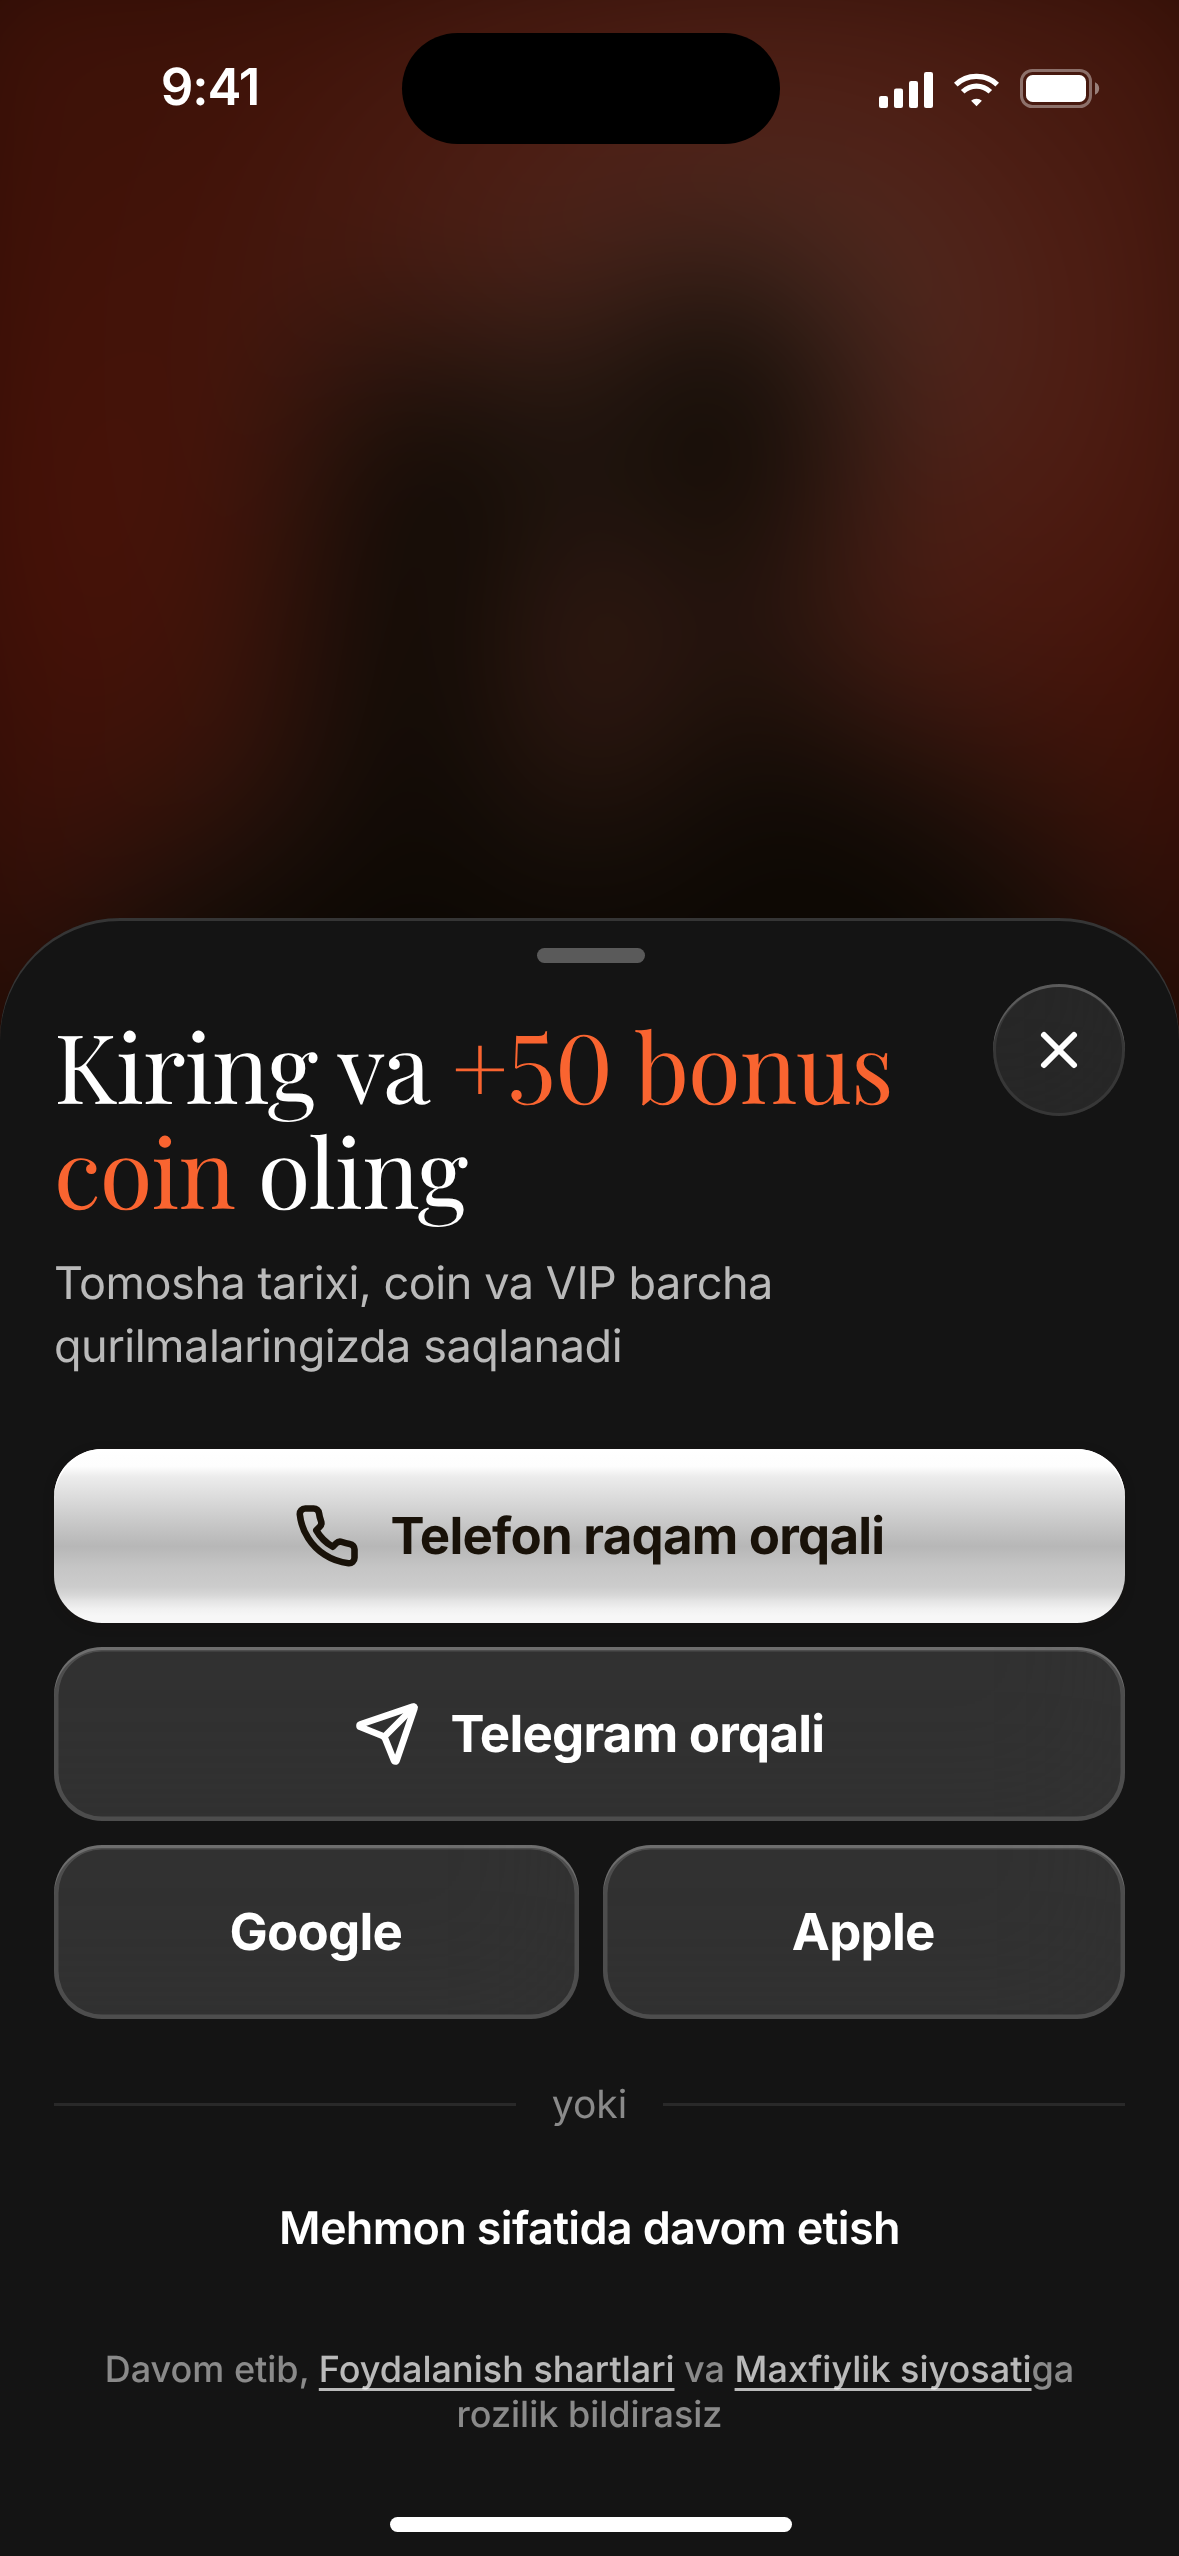
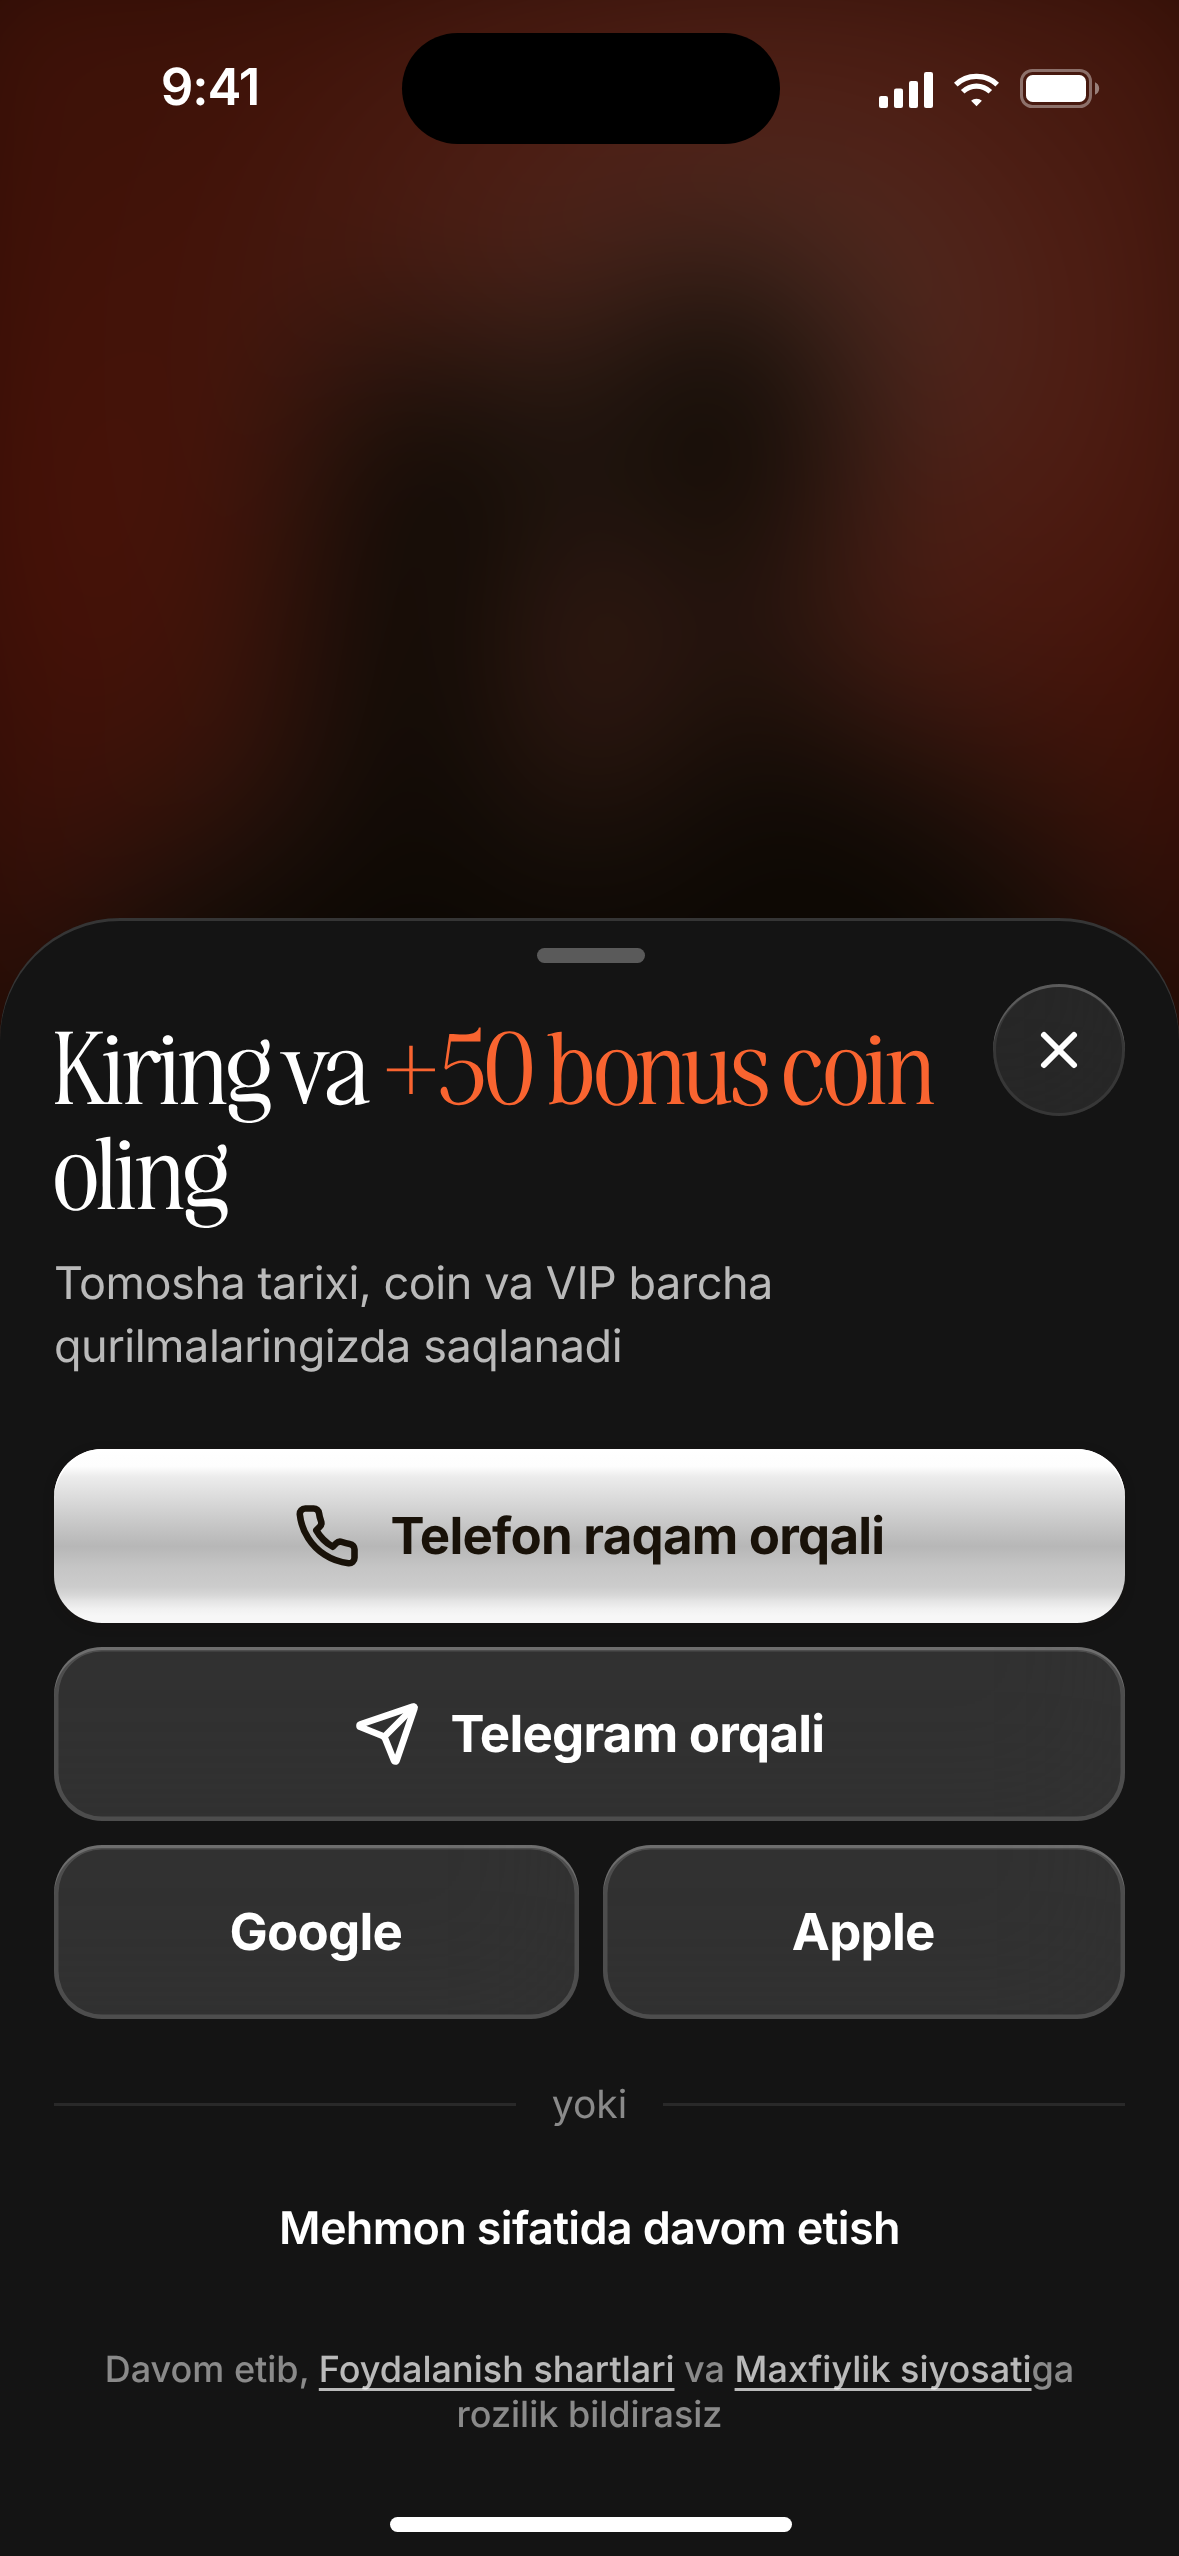
Serif headings use Awesome Serif (user-licensed files kept out of the public repo)
- @font-face loads design/fonts/AwesomeSerif-Regular/MediumRegular.otf
  (gitignored: commercial font, public repository); missing glyphs
  (U+02BB, U+02BC, guillemets, minus) and the very small plus fall back
  to Playfair Display via unicode-range
- styleguide, fonts.md, DEVIATIONS U1, README, audit labels updated;
  audit clean, 3x shots and montages regenerated

Claude-Session: https://claude.ai/code/session_01AYQSqmCKxR9wk5HyhigZPN

Changed region(s): [[0.0305, 0.4018, 0.7939, 0.4945]]

diff --git a/design/tokens.css b/design/tokens.css
@@ -3,11 +3,12 @@
    Har bir qiymat 1-bosqich o'lchovlaridan (design/analysis/SUMMARY.md).
    1 pt = 1 CSS px (ekran kengligi 393).
    ===================================================================== */
-/* Serif — foydalanuvchi tanlovi: Awesome Serif (Nicky Laatz, tijoriy litsenziya). Fayl repoda yo'q: qurilmada o'rnatilgan
-   bo'lsa local() orqali ishlaydi; litsenziyali .woff2 fayllar qo'shilsa, src'ga url('fonts/AwesomeSerif-Regular.woff2') yoziladi.
-   Ungacha eng yaqin bepul o'rinbosar — Playfair Display (yuqori kontrast, ʻ U+02BB glifi to'g'ri kenglikda). */
-@font-face { font-family: 'Awesome Serif'; font-weight: 400; font-display: swap; src: local('Awesome Serif'), local('Awesome Serif Regular'), local('AwesomeSerif-Regular'); }
-@font-face { font-family: 'Awesome Serif'; font-weight: 500; font-display: swap; src: local('Awesome Serif Medium'), local('AwesomeSerif-Medium'); }
+/* Serif — foydalanuvchi tanlovi: Awesome Serif (Nicky Laatz, tijoriy litsenziya; foydalanuvchi o'z fayllarini berdi).
+   Fayllar design/fonts/ da — .gitignore'da: ochiq repoga qo'yilmaydi (litsenziya). Fayl bo'lmasa — o'rnatilgan shrift (local),
+   u ham bo'lmasa Playfair Display. Awesome Serif'da yo'q belgilar (ʻ ʼ « » − № × →) avtomatik Playfair Display'dan olinadi;
+   «+» belgisi ham (unicode-range'dan chiqarilgan): Awesome Serif'dagi «+» juda kichik — «+50 bonus» «· 50» bo'lib o'qilardi. */
+@font-face { font-family: 'Awesome Serif'; font-weight: 400; font-display: swap; src: local('Awesome Serif Regular'), local('AwesomeSerif-Regular'), url('fonts/AwesomeSerif-Regular.otf') format('opentype'); unicode-range: U+0000-002A, U+002C-10FFFF; }
+@font-face { font-family: 'Awesome Serif'; font-weight: 500; font-display: swap; src: local('Awesome Serif Medium Regular'), local('AwesomeSerif-MediumRegular'), url('fonts/AwesomeSerif-MediumRegular.otf') format('opentype'); unicode-range: U+0000-002A, U+002C-10FFFF; }
 :root {
   /* ---------- Neytral (ref-01 skelet) ---------- */
   --bg-0: #000000;            /* ref-01: ekran foni, 6 nuqta #000000–#020101 */
@@ -172,7 +173,7 @@
 
   /* ---------- Tipografiya ---------- */
   --f-display: 'Anton', 'Impact', sans-serif;               /* ref-01 MARTY SUPREME → Anton (IoU) */
-  --f-serif: 'Awesome Serif', 'Playfair Display', 'Georgia', serif;   /* foydalanuvchi: Awesome Serif (yuqoridagi izoh); o'rinbosar Playfair Display */
+  --f-serif: 'Awesome Serif', 'Playfair Display', 'Georgia', serif;   /* foydalanuvchi: Awesome Serif (yuqoridagi izoh); yo'q belgilar va fayl bo'lmasa — Playfair Display */
   --f-ui: 'Inter', -apple-system, 'SF Pro Text', sans-serif; /* ref-01/04 SF → Inter */
   --f-edit: 'Inter Tight', 'Inter', sans-serif;             /* ref-03 */
   --f-mono: 'IBM Plex Mono', ui-monospace, monospace;       /* ref-03 caption */

diff --git a/design/styleguide.html b/design/styleguide.html
@@ -146,7 +146,7 @@
 
   <!-- ===== Shriftlar ===== -->
   <section class="sec-sg">
-    <header><h2>Shriftlar</h2><p>Serif — Awesome Serif (tijoriy shrift: qurilmada oʻrnatilgan boʻlsa shu koʻrinadi), oʻrinbosari Playfair Display; qolgan toʻrttasi Google Fonts. Oʻzbek belgilari (Oʻ, Gʻ — U+02BB, tutuq ʼ — U+02BC) glif va kenglik boʻyicha tekshirilgan (<code class="k">analysis/fonts.md</code>).</p></header>
+    <header><h2>Shriftlar</h2><p>Serif — Awesome Serif (Nicky Laatz, foydalanuvchi litsenziyasi); unda yoʻq belgilar (ʻ ʼ « » − №) va «+» Playfair Display'dan. Qolgan toʻrttasi Google Fonts. Oʻzbek belgilari (Oʻ, Gʻ — U+02BB, tutuq ʼ — U+02BC) glif va kenglik boʻyicha tekshirilgan (<code class="k">analysis/fonts.md</code>).</p></header>
     <div class="fonts" id="fonts"></div>
   </section>
 
@@ -218,7 +218,7 @@
   const ABC = 'Aa Bb Dd Ee Ff Gg Hh Ii Jj Kk Ll Mm Nn Oo Pp Qq Rr Ss Tt Uu Vv Xx Yy Zz Oʻoʻ Gʻgʻ Shsh Chch';
   const FONTS = [
     ['Anton', '--f-display', 'Display · 400', 'Hero sarlavha lockup, Top-10 raqamlari, coin miqdori, countdown.', 'ANTON'],
-    ['Awesome Serif', '--f-serif', 'Serif · 400 / 500 · oʻrinbosar Playfair Display', 'Emotsional sarlavhalar: onboarding, kirish, sovgʻa, VIP, profil ismi.', ''],
+    ['Awesome Serif', '--f-serif', 'Serif · 400 / 500 · ʻ ʼ « » + — Playfair Display', 'Emotsional sarlavhalar: onboarding, kirish, sovgʻa, VIP, profil ismi.', ''],
     ['Inter', '--f-ui', 'UI · 400 / 500 / 600 / 700', 'Barcha interfeys matni: tugma, roʻyxat, meta, nav.', ''],
     ['Inter Tight', '--f-edit', 'Editorial · 400 / 500', 'Katta tahririy sarlavhalar va roʻyxatlar (ref-03).', ''],
     ['IBM Plex Mono', '--f-mono', 'Mono · 400 / 500', 'ID, taklif kodi, kichik yorliqlar.', ''],

diff --git a/design/components.css b/design/components.css
@@ -30,8 +30,8 @@ button { font: inherit; color: inherit; background: none; border: 0; cursor: poi
 /* ---------- Tipografiya (shkala) ---------- */
 .t-display { font-family: var(--f-display); font-weight: 400; line-height: .86; text-transform: uppercase; letter-spacing: 0; }
 .t-num { font: 400 var(--t-num)/.9 var(--f-display); }
-.t-serif-xl { font: 400 var(--t-serif-xl)/1.05 var(--f-serif); letter-spacing: -.01em; font-variant-numeric: lining-nums; }
-.t-serif-lg { font: 400 var(--t-serif-lg)/1.1 var(--f-serif); letter-spacing: -.01em; font-variant-numeric: lining-nums; }
+.t-serif-xl { font: 400 var(--t-serif-xl)/1.05 var(--f-serif); letter-spacing: 0; font-variant-numeric: lining-nums; }
+.t-serif-lg { font: 400 var(--t-serif-lg)/1.1 var(--f-serif); letter-spacing: 0; font-variant-numeric: lining-nums; }
 .t-edit-xl { font: 400 var(--t-edit-xl)/.98 var(--f-edit); letter-spacing: -.04em; }
 .t-edit { font: 400 var(--t-edit)/1.41 var(--f-edit); letter-spacing: -.04em; }
 .t-title-1 { font: 400 var(--t-title-1)/.97 var(--f-ui); letter-spacing: -.015em; }

diff --git a/design/tools/shoot.js b/design/tools/shoot.js
@@ -17,7 +17,7 @@ const [,, scale, outDir, ...files] = process.argv;
       const s = document.getElementById('screen') || document.querySelector('.screen');
       const pad = s.querySelector('.scroll-pad');
       const natural = pad ? Math.ceil(pad.getBoundingClientRect().bottom - s.getBoundingClientRect().top) : null;
-      const fontsOk = ['Anton', 'Playfair Display', 'Inter', 'Inter Tight', 'IBM Plex Mono'].map(n => n + ':' + document.fonts.check(`16px "${n}"`));
+      const fontsOk = ['Anton', 'Awesome Serif', 'Inter', 'Inter Tight', 'IBM Plex Mono'].map(n => n + ':' + document.fonts.check(`16px "${n}"`));
       return { h: s.getBoundingClientRect().height, natural, fontsOk };
     });
     await page.setViewportSize({ width: 393, height: Math.ceil(info.h) });

diff --git a/design/tools/audit.py b/design/tools/audit.py
@@ -136,7 +136,7 @@ for n, d in A.items():
 w(f'- Shkala: {sorted(SCALE)}')
 w(f'- Shkaladan tashqari oʻlchamlar: ' + ('yoʻq' if not off else ''))
 for s, l in sorted(off.items()): w(f'  - {s}px × {len(l)}: ' + ', '.join(l[:6]))
-fams = sorted({t['family'].replace('Awesome Serif', 'Awesome Serif (oʻrinbosar Playfair Display)') for d in A.values() for t in d['text']})
+fams = sorted({t['family'].replace('Awesome Serif', 'Awesome Serif (+ Playfair Display: ʻ ʼ « » +)') for d in A.values() for t in d['text']})
 w(f'- Shrift oilalari: {", ".join(fams)}\n')
 
 # ---------------------------------------------------------------- 6. radiuslar
@@ -210,7 +210,7 @@ w("| Sahifa cheti, bo'limlar orasi bir xil | ✓ (18 pt — DEVIATIONS S7) | §7
 w("| Glossy pill ref-01 bilan farqsiz | ✓ | `DELTA_E.md`: 13 nuqtali profil, oʻrtacha ΔE 0.41, max 1.47 |")
 w("| Glass (blur, alfa, chegara) ref-04/05/06/07 bilan | ✓ | `DELTA_E.md`: bir xil fon ustida render; `--glass-filter` blur 24, saturate yoʻq (S10) |")
 w('| Nur halqasi va grain iliq ekranlarda, kuchi bir xil | ✓ | §7c; bitta `--ring-shadow`, bitta `--grain-opacity` |')
-w("| Tipografiya faqat shkaladan; oʻ/gʻ toʻgʻri | ✓ | §5; serif — Awesome Serif / Playfair Display, ʻ toʻgʻri kenglikda (`fonts.md` §7b) |")
+w("| Tipografiya faqat shkaladan; oʻ/gʻ toʻgʻri | ✓ | §5; serif — Awesome Serif, unda yoʻq ʻ ʼ Playfair Display'dan toʻgʻri kenglikda (`fonts.md` §7b) |")
 w('| Ikonkalar bitta toʻplamdan, round cap | ✓ (stroke 2.4 — foydalanuvchi soʻrovi bilan qalinlashtirildi) | §7b |')
 w('| Bottom nav 5 ekranda piksel aniqligida bir joyda | ✓ | §2 |')
 w('| Status bar, Dynamic Island, home indicator bir xil | ✓ | §1 |')

diff --git a/design/README.md b/design/README.md
@@ -10,7 +10,7 @@ Faqat HTML + CSS + minimal vanilla JS (prototip xatti-harakati — `app.js`). Fr
    - **`design/styleguide.html`** — ref-07 formatidagi stil qo'llanmasi: shrift alifbolari va raqamlar, HEX doiralar, gradient namunalari, tipografiya shkalasi, effektlar, radiuslar, oraliqlar, ikonkalar.
    - **`design/components.html`** — barcha komponentlar va holatlari.
    - Alohida ekran: `design/screens/04-bosh-sahifa.html` va h.k. (393 px kenglikda).
-3. Shriftlar Google Fonts'dan yuklanadi (internet kerak): Anton, Gelasio (+ faqat ʻ ʼ uchun Noto Serif subset'i), Inter, Inter Tight, IBM Plex Mono.
+3. Shriftlar: Anton, Inter, Inter Tight, IBM Plex Mono, Playfair Display — Google Fonts'dan (internet kerak). Serif sarlavhalar — **Awesome Serif** (tijoriy): fayllarni `design/fonts/` ga qo'ying (`AwesomeSerif-Regular.otf`, `AwesomeSerif-MediumRegular.otf`) yoki shriftni kompyuterga o'rnating. Bu papka `.gitignore`'da — ochiq repoda shrift yo'q; fayl bo'lmasa Playfair Display ko'rinadi.
 
 ## Ekranlar
 | Bo'lim | Ekranlar |
@@ -31,7 +31,8 @@ design/
 ├── components.html  komponentlar galereyasi
 ├── tokens.css       barcha ranglar, soyalar, radiuslar, o'lchamlar, shriftlar (har birining manbasi izohda)
 ├── components.css   komponentlar (icons.css va art.css ni import qiladi)
-├── icons.css        bitta ikonka to'plami — 87 ta, stroke 1.75, round cap (tools/build_icons.py)
+├── icons.css        bitta ikonka to'plami — Lucide 0.460.0, 87 ta, stroke 2.4, round cap (tools/build_icons.py)
+├── fonts/           Awesome Serif (litsenziyali, .gitignore — repoda yo'q)
 ├── art.css          rasm placeholder'lari, grain, status bar glifi (tools/build_art.py)
 ├── screens/         01…30
 ├── data/dramas.md   har bir drama ↔ ambient rang + siluet (17 drama)

diff --git a/design/analysis/DEVIATIONS.md b/design/analysis/DEVIATIONS.md
@@ -5,7 +5,7 @@ Har bir farq: nima → nimaga · sababi · manba. "O'lchov" — 1-bosqichda refe
 ## Foydalanuvchi ko'rsatmasi bilan (referens o'lchovidan ustun)
 | # | Farq | Sabab |
 |---|---|---|
-| U1 | Serif: Gelasio → **Awesome Serif** (tijoriy; qurilmada o'rnatilgan yoki litsenziyali fayl qo'shilganda), o'rinbosar **Playfair Display**; serif sarlavhalarda `lining-nums` | Foydalanuvchi so'rovi. Awesome Serif'ni repoga qo'shib bo'lmaydi (litsenziya) — `fonts.md` §7b |
+| U1 | Serif: Gelasio → **Awesome Serif** Regular / Medium (foydalanuvchi bergan litsenziyali fayllar, `design/fonts/`, gitignore); unda yo'q belgilar (ʻ ʼ « » − № × →) va juda kichik «+» — **Playfair Display**'dan | Foydalanuvchi so'rovi. Fayllar ochiq repoga qo'yilmadi (tijoriy litsenziya) — `fonts.md` §7b |
 | U2 | Ikonkalar: o'z chizgan to'plam (stroke 1.75) → **Lucide 0.460.0, stroke 2.4** (ISC, `tools/icons-src/`); `cc`, `hd` — shu to'r va konturda | Foydalanuvchi: ikonkalar qalinroq va sifatliroq. PROMPT'dagi «stroke 1.75–2» o'rniga |
 | U3 | Tugmalar: pill (999) → **radius 16 / 14 / 12**, balandlik 52 / 43 / 29 → **58 / 48 / 34**, matn 600 15 → **700 17 / 15 / 13**, ikonka 20 → 22; glass tugma foni oq 8 % → **12 %**, chegara 1 → **1.5 px**; 02-ekranda tugmalar orasi 12 → **8** | Foydalanuvchi: «katta-katta, qalin, bir-biriga yaqin, burchaklari kamroq yumaloq». ref-01 glossy gradient saqlandi, faqat shakli o'zgardi |
 | U4 | «Davom ettirish» kartalari: landscape 16:9 (ref-02) → **Reels formatida vertikal 9:16** (132 × 235, qism raqami kadr ichida, pastida himoya gradienti) | Foydalanuvchi so'rovi (YouTube formati o'rniga Reels) |

diff --git a/design/analysis/CHECKLIST.md b/design/analysis/CHECKLIST.md
@@ -24,7 +24,7 @@ Fon — matnsiz render (`*{color:transparent}`) piksellari; matn rangi alfa va o
 ## 5. Tipografiya shkalasi
 - Shkala: [10, 11, 12, 13, 15, 17, 20, 24, 26, 28, 30, 32, 36, 40, 44, 53, 72, 96, 128]
 - Shkaladan tashqari oʻlchamlar: yoʻq
-- Shrift oilalari: Anton, Awesome Serif (oʻrinbosar Playfair Display), IBM Plex Mono, Inter, Inter Tight
+- Shrift oilalari: Anton, Awesome Serif (+ Playfair Display: ʻ ʼ « » +), IBM Plex Mono, Inter, Inter Tight
 
 ## 6. Radiuslar
 - Token radiuslari: [6, 10.2, 11, 12, 14, 16, 17, 20.7, 24, 28, 34.5, 40, 55, 999] (+ 50 % / pill)
@@ -84,7 +84,7 @@ Fon — matnsiz render (`*{color:transparent}`) piksellari; matn rangi alfa va o
 | Glossy pill ref-01 bilan farqsiz | ✓ | `DELTA_E.md`: 13 nuqtali profil, oʻrtacha ΔE 0.41, max 1.47 |
 | Glass (blur, alfa, chegara) ref-04/05/06/07 bilan | ✓ | `DELTA_E.md`: bir xil fon ustida render; `--glass-filter` blur 24, saturate yoʻq (S10) |
 | Nur halqasi va grain iliq ekranlarda, kuchi bir xil | ✓ | §7c; bitta `--ring-shadow`, bitta `--grain-opacity` |
-| Tipografiya faqat shkaladan; oʻ/gʻ toʻgʻri | ✓ | §5; serif — Awesome Serif / Playfair Display, ʻ toʻgʻri kenglikda (`fonts.md` §7b) |
+| Tipografiya faqat shkaladan; oʻ/gʻ toʻgʻri | ✓ | §5; serif — Awesome Serif, unda yoʻq ʻ ʼ Playfair Display'dan toʻgʻri kenglikda (`fonts.md` §7b) |
 | Ikonkalar bitta toʻplamdan, round cap | ✓ (stroke 2.4 — foydalanuvchi soʻrovi bilan qalinlashtirildi) | §7b |
 | Bottom nav 5 ekranda piksel aniqligida bir joyda | ✓ | §2 |
 | Status bar, Dynamic Island, home indicator bir xil | ✓ | §1 |

diff --git a/design/analysis/fonts.md b/design/analysis/fonts.md
@@ -103,3 +103,6 @@ Gelasio'da ʻ kengligi 0 — belgi keyingi harf ustiga tushadi ("Oʻzbek" → "O
 Foydalanuvchi serif sarlavhalar uchun **Awesome Serif** (Nicky Laatz, 2023) ni so'radi. Bu tijoriy shrift — Google Fonts'da yo'q, repoga qo'shib bo'lmaydi.
 `tokens.css`: `--f-serif: 'Awesome Serif', 'Playfair Display', Georgia, serif` va `@font-face { src: local('Awesome Serif') … }` — shrift qurilmada o'rnatilgan bo'lsa yoki litsenziyali `.woff2` qo'shilsa (`src`ga `url()`), avtomatik ishlaydi.
 O'rinbosar **Playfair Display** (yuqori kontrastli displey serif): `ʻ` U+02BB glifi bor va kengligi to'g'ri (100 px da 26 px) — Noto Serif subset'i endi kerak emas, olib tashlandi. Raqamlar `lining-nums` (Playfair'da standart — old-style).
+
+**Yangilanish:** foydalanuvchi litsenziyali fayllarni berdi (`Awesome Serif Desktop Fonts.zip`). Ishlatilgani: `AwesomeSerif-Regular.otf` (400) va `AwesomeSerif-MediumRegular.otf` (500) — `design/fonts/`, `.gitignore`'da (ochiq GitHub repoga tijoriy shrift qo'yilmaydi; "Desktop" litsenziya veb-joylashtirishni qamramasligi mumkin — ommaga chiqarishdan oldin web litsenziya kerak).
+Glif qamrovi (canvas, ikki xil fallback bilan): **yo'q** — `ʻ` `ʼ` `«` `»` `−` `№` `×` `→` `↓` → Playfair Display'dan olinadi (ʻ kengligi to'g'ri). `+` bor, lekin juda kichik — `unicode-range` dan chiqarilib, Playfair'dan olinadi.
